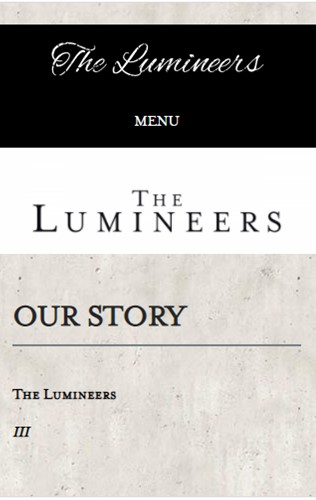
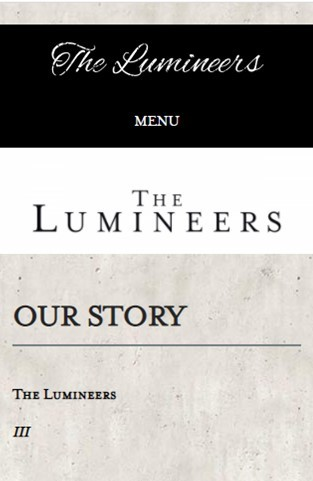
clean up

diff --git a/lesson2/css/small.css b/lesson2/css/small.css
@@ -22,6 +22,7 @@ h1 {
     border-top: solid rgb(0, 0, 0);
     border-bottom: solid black;
 }
+
  
 h2 {
     font-family: "open sans condensed", sans-serif;
@@ -37,6 +38,7 @@ h2 {
 }
 
 #examples a {
+    float: right;
     padding: 1em;
     font-family: "open sans condensed", sans-serif;
     font-size: 15pt;
@@ -62,7 +64,8 @@ h2 {
 
 
 img{
-    margin: 1em;
+    margin: 1rem 2%;
+    width: 94%;
     border: solid gray;
 }
 
@@ -89,8 +92,8 @@ p {
 }
 
 footer p{
+    text-align: right;
     background-image: linear-gradient(to left, rgba(200,0,0,0), rgb(95, 92, 92));
-    color: whitesmoke;
     font-family: "yion sung", serif;
     padding: 1.5em;
     border-top: solid black;
